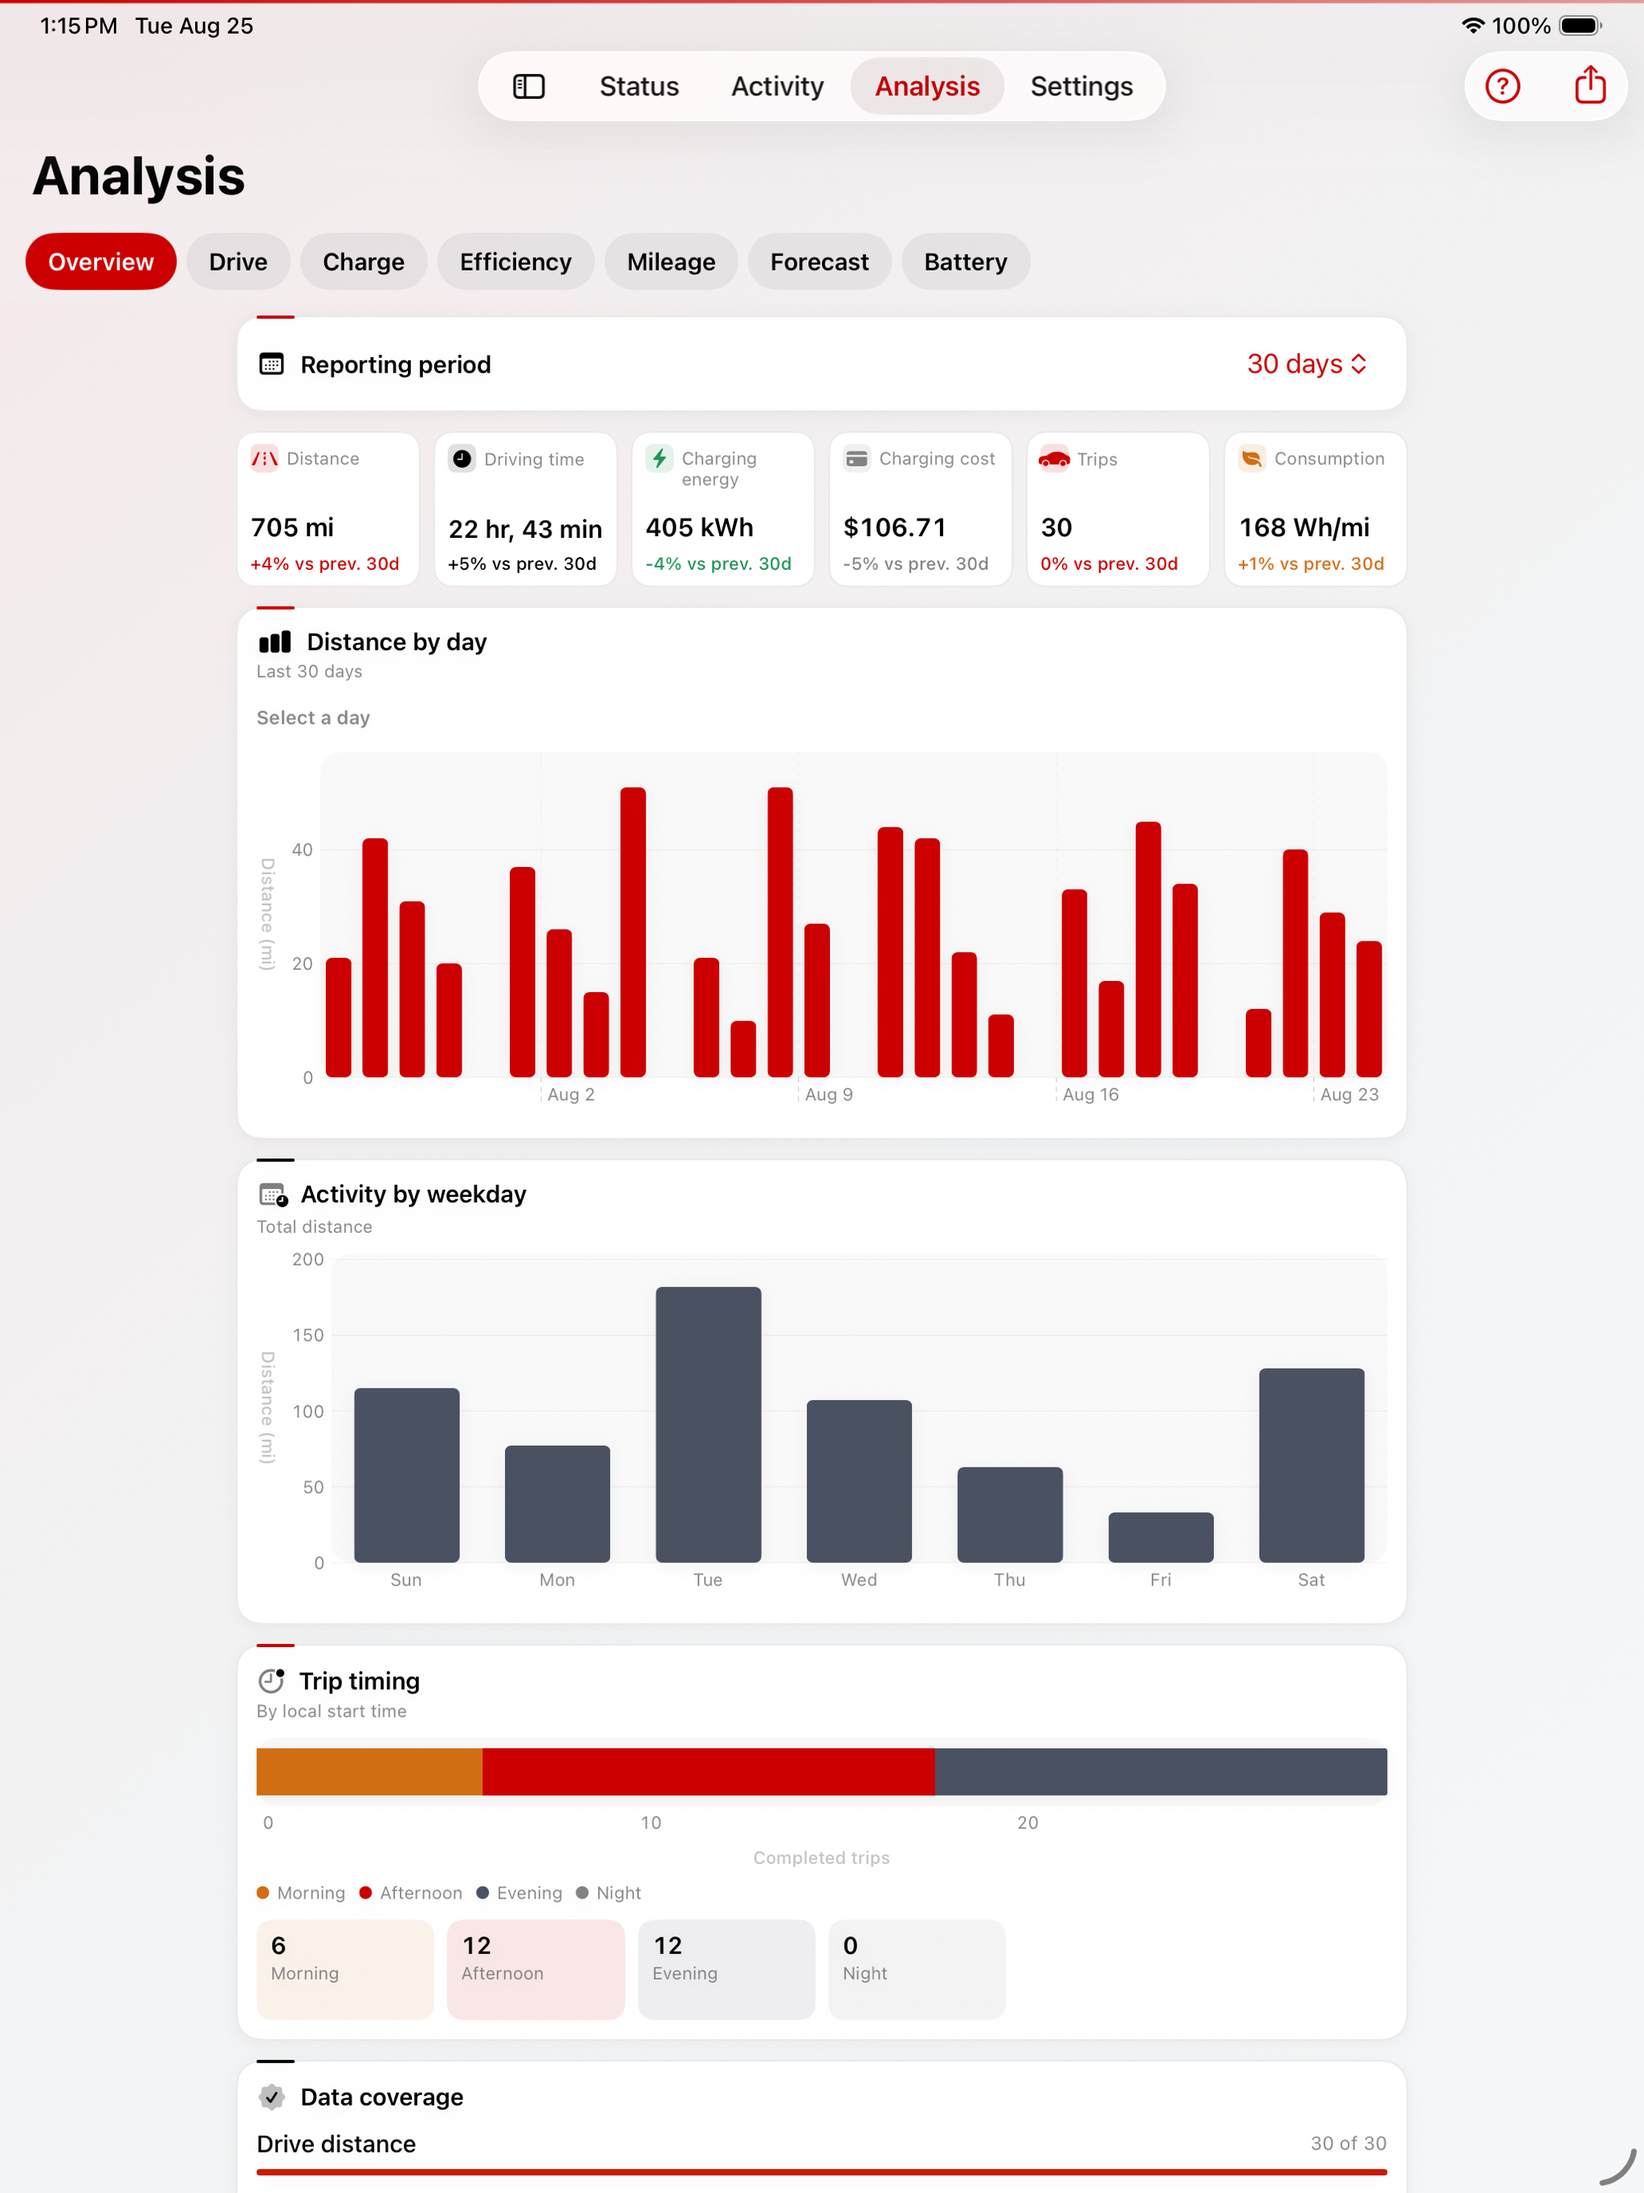
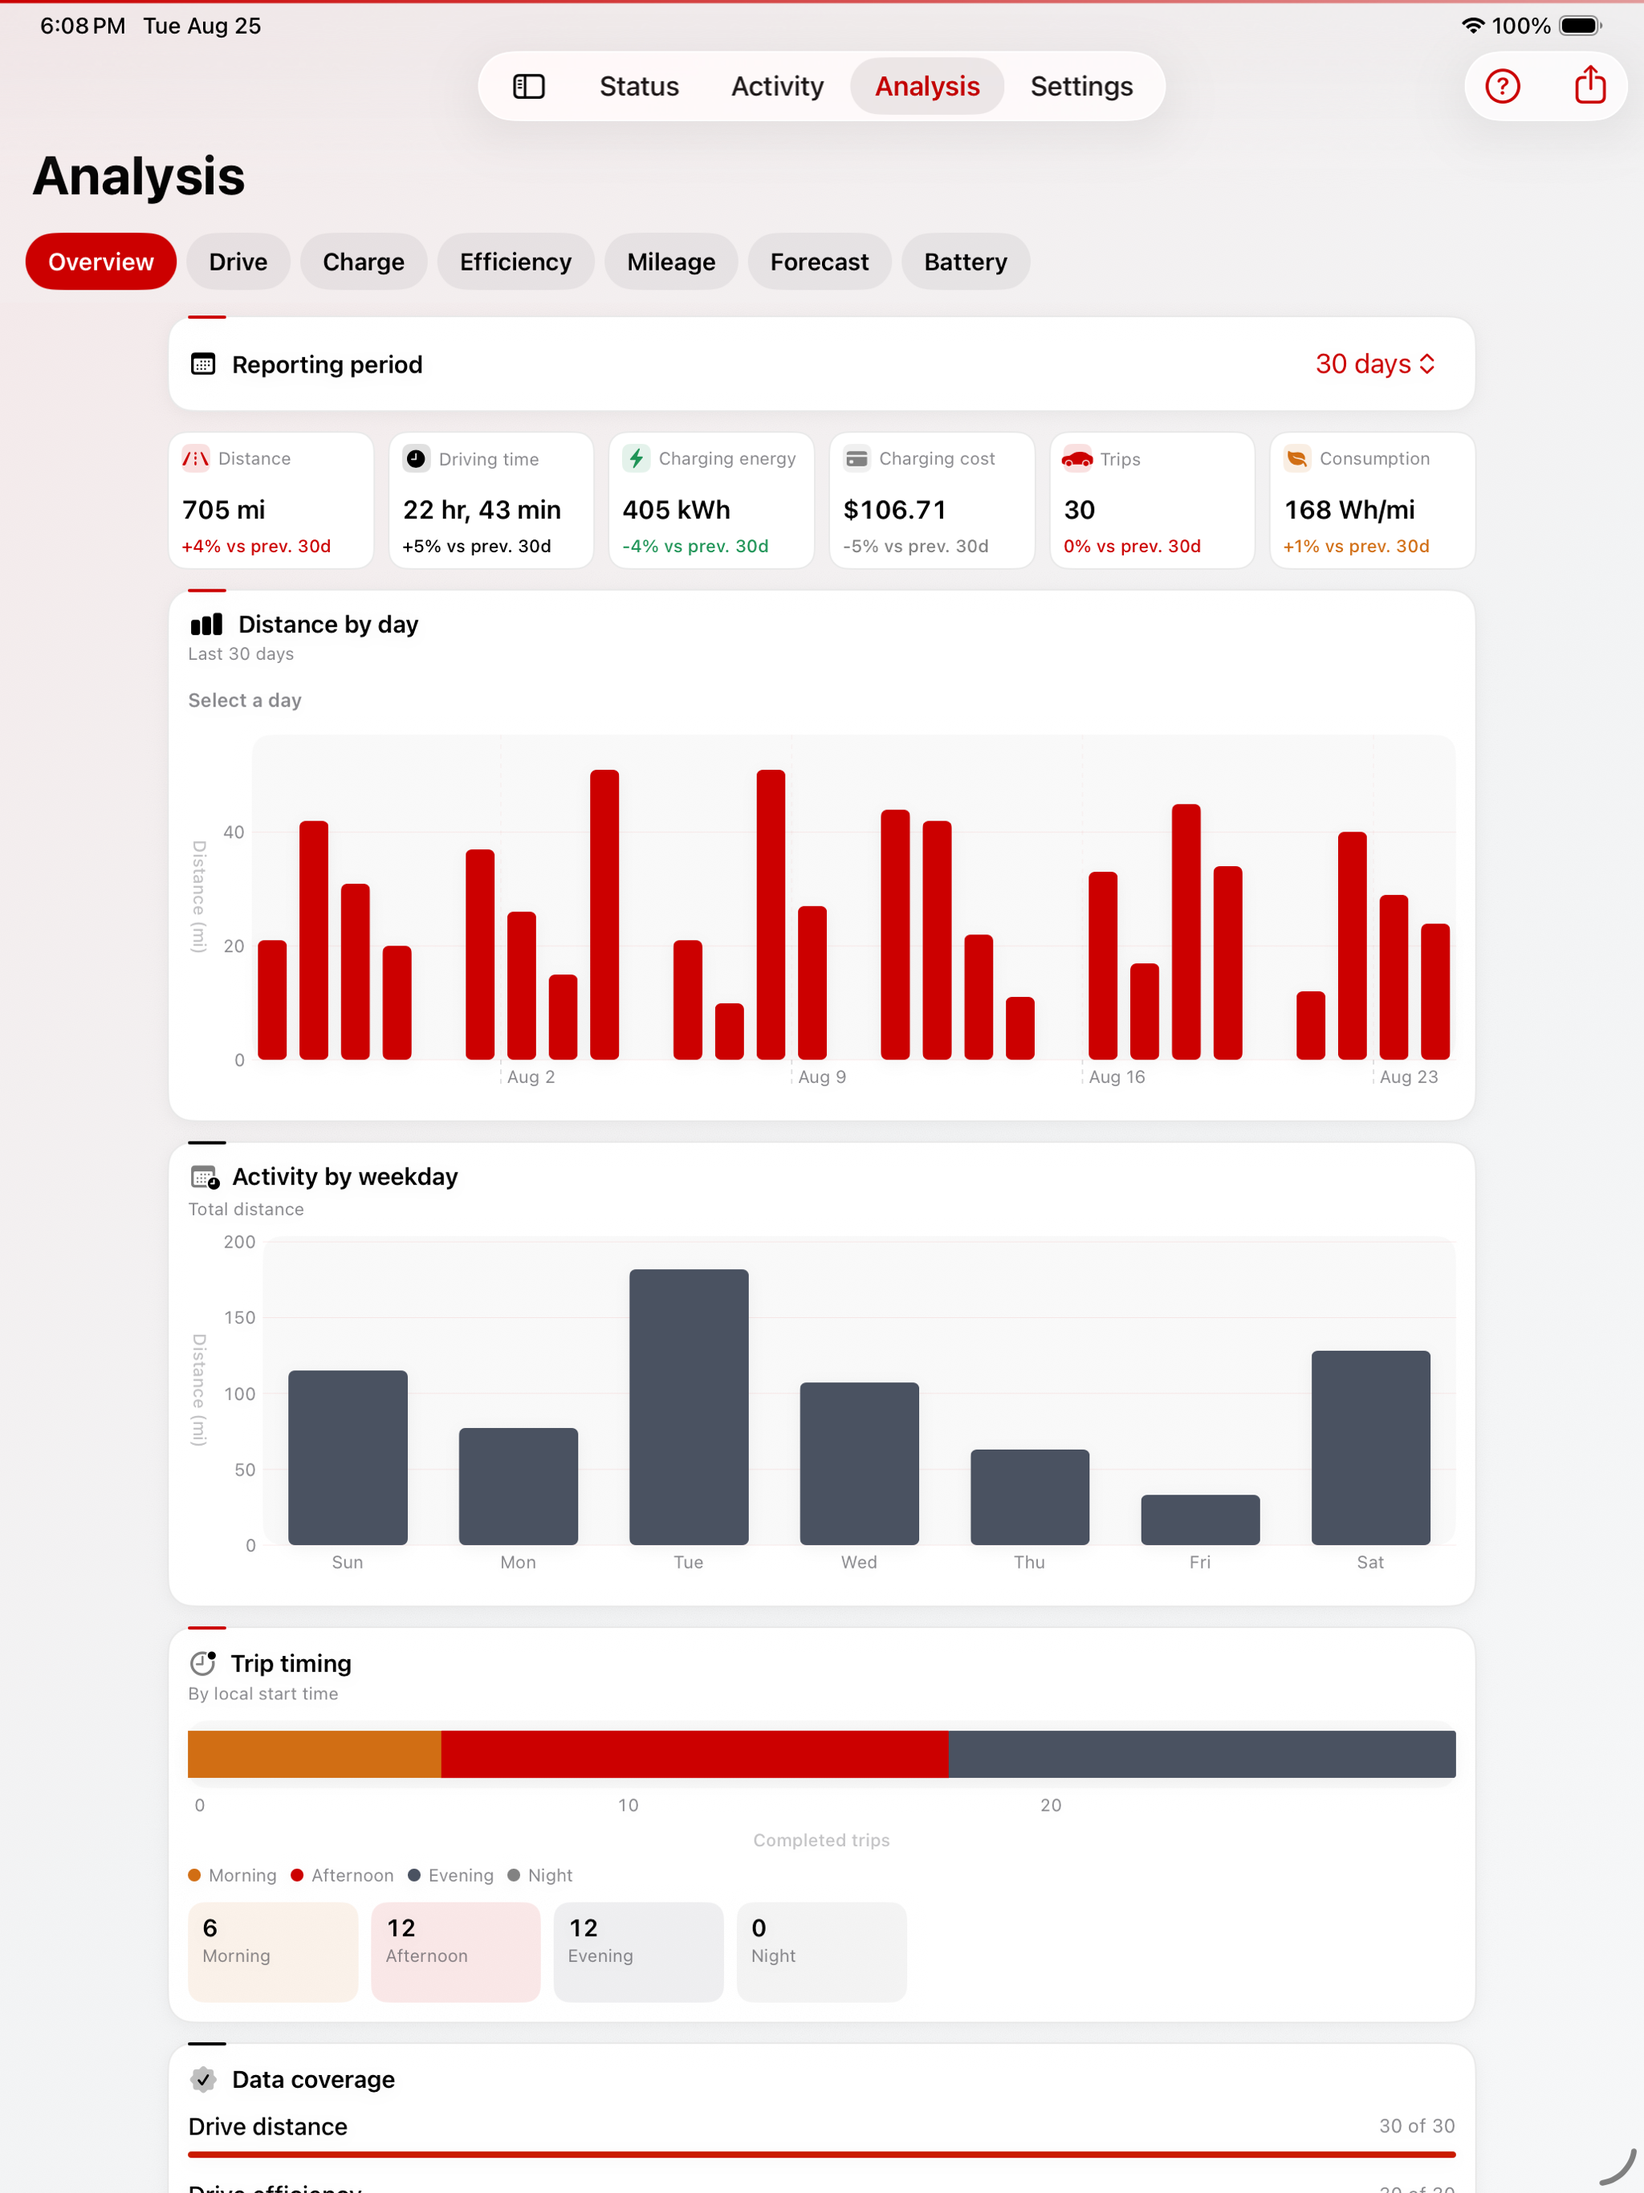
Record the 1.10.0 resubmission with the iPad board

diff --git a/release/tessalytics-1.10.0/README.md b/release/tessalytics-1.10.0/README.md
@@ -1,7 +1,18 @@
 # Tessalytics 1.10.0 (202608251308)
 
-TestFlight build, uploaded 2026-08-25 13:13:20 US/Pacific from `main`.
-Not yet submitted for review — see **Blocked on the account holder** below.
+**Superseded by build 202608251806.** That build carries everything below plus
+the multi-column iPad dashboard, and is the one in review.
+
+Build `202608251308` was uploaded 2026-08-25 13:13:20, submitted, then withdrawn
+so the board could ship in this submission rather than the next one. Build
+`202608251806` was uploaded 18:11:08 from `main` at `4d66902`, processed `VALID`,
+and submitted as review submission `5c5e76a1-1ad5-41ea-b370-27baacea8485`. Build
+resource `6b7a58c4-5188-4a1f-8a91-3726b92c6e8f`, TestFlight expiry 2026-11-23,
+export compliance exempt, minimum iOS 18.0.
+
+The marketing version did not move: 1.10.0 has never been released, so a new
+build replaces the binary on the same version record rather than opening a new
+one. Withdrawing forfeited the queue position both times.
 
     ASC_METADATA=release/tessalytics-1.10.0/metadata:app-store/metadata
 
@@ -89,24 +100,51 @@ Mileage dashboards, the dual-axis hero chart and the text trim.
   imperceptible — but it is a resample, and if Apple later accepts 2064×2752 for
   this slot the native captures should be used instead.
 
-## Blocked on the account holder
+## The iPad board (build 202608251806)
 
-This build is **not submitted**. Four things are outside what can be done from a
-terminal, and three of them would produce a bad submission if guessed:
+The dashboard was a single 760-point column. On an iPad Pro 13 in landscape the
+sidebar takes about 280 points and leaves 1,072, so a third of the usable width
+was margin. It is now three columns in landscape, two in portrait, one on a
+phone, and the cards can be rearranged and stay where they are put.
 
-1. **The privacy questionnaire has changed.** The previous answer was that
-   credentials never leave the device. That is no longer true. The form is not in
-   the App Store Connect API this repo's `scripts/asc.py` speaks; it is a web form
-   on the account. Submitting against stale answers risks rejection, or worse,
-   passing review while being wrong.
+The column step is at 1,050 points because that sits between the two widths this
+actually runs at — 1,008 portrait, 1,072 landscape — so turning the iPad gains a
+column instead of stretching cards. A first attempt used 1,150 and never reached
+three: a guess that had not accounted for the sidebar.
+
+Dragging did not work at first either. The cards' gestures are suppressed while
+arranging so a chart cannot scrub under the finger, but `allowsHitTesting(false)`
+was on the same view as `draggable` and disabled the drag with it — the board
+scrolled instead of moving the card. The content is now inert inside a container
+that stays live.
+
+Arranging is an explicit mode rather than always-on dragging, because these cards
+hold charts that scrub and maps that pan. Five cards are pinned: the hero, the
+still-collecting notice, both live sections, the status fallback. Reset is in the
+Arrange button's context menu.
+
+The iPad screenshots were re-taken against this build. The set pushed with
+202608251308 showed the old single narrow column and would have misrepresented
+the app.
+
+## Still outside what a terminal can do
+
+The submission is in, but two of these remain unset and affect it:
+
+1. **The privacy questionnaire needs nothing** — an earlier claim in this kit
+   that it did was wrong and is corrected here. Verified: no location APIs, no
+   third-party SDKs, an empty `NSPrivacyCollectedDataTypes`, and Apple's
+   definition of "collect" turns on the developer having access, which for the
+   user's own iCloud is not the case. What *did* need fixing was the policy page
+   the listing links to, `tessalytics.echo.cool/privacy`, which still promised
+   tokens never leave the device. That page is corrected in the tree but **not
+   deployed** — a Cloudflare publish, and the live page currently contradicts the
+   build in review.
 2. **The version is `1.10.0`,** chosen as a minor for new platforms plus a sync
-   feature. It is baked into the uploaded build; changing it means another build,
-   and it must be settled before submission rather than after.
+   feature, and now submitted as such.
 3. **Mac availability is a checkbox** under Pricing and Availability, not part of
    the binary. Without it the app ships iPhone- and iPad-only whatever the build
    supports.
-4. **1.6.0 still holds the editable version record** at `WAITING_FOR_REVIEW`, and
-   withdrawing it forfeits its queue position the moment it happens. If it is
-   close to being picked up, letting it clear may cost less time than withdrawing
-   now. That is a judgement about the queue that the account holder can see and
-   this cannot.
+4. **1.6.0 was withdrawn** and its record renamed to 1.10.0. Three withdrawals
+   happened in total on 25 August — 1.6.0, then 1.10.0 twice — each forfeiting
+   the queue position. Worth weighing before the next one.
